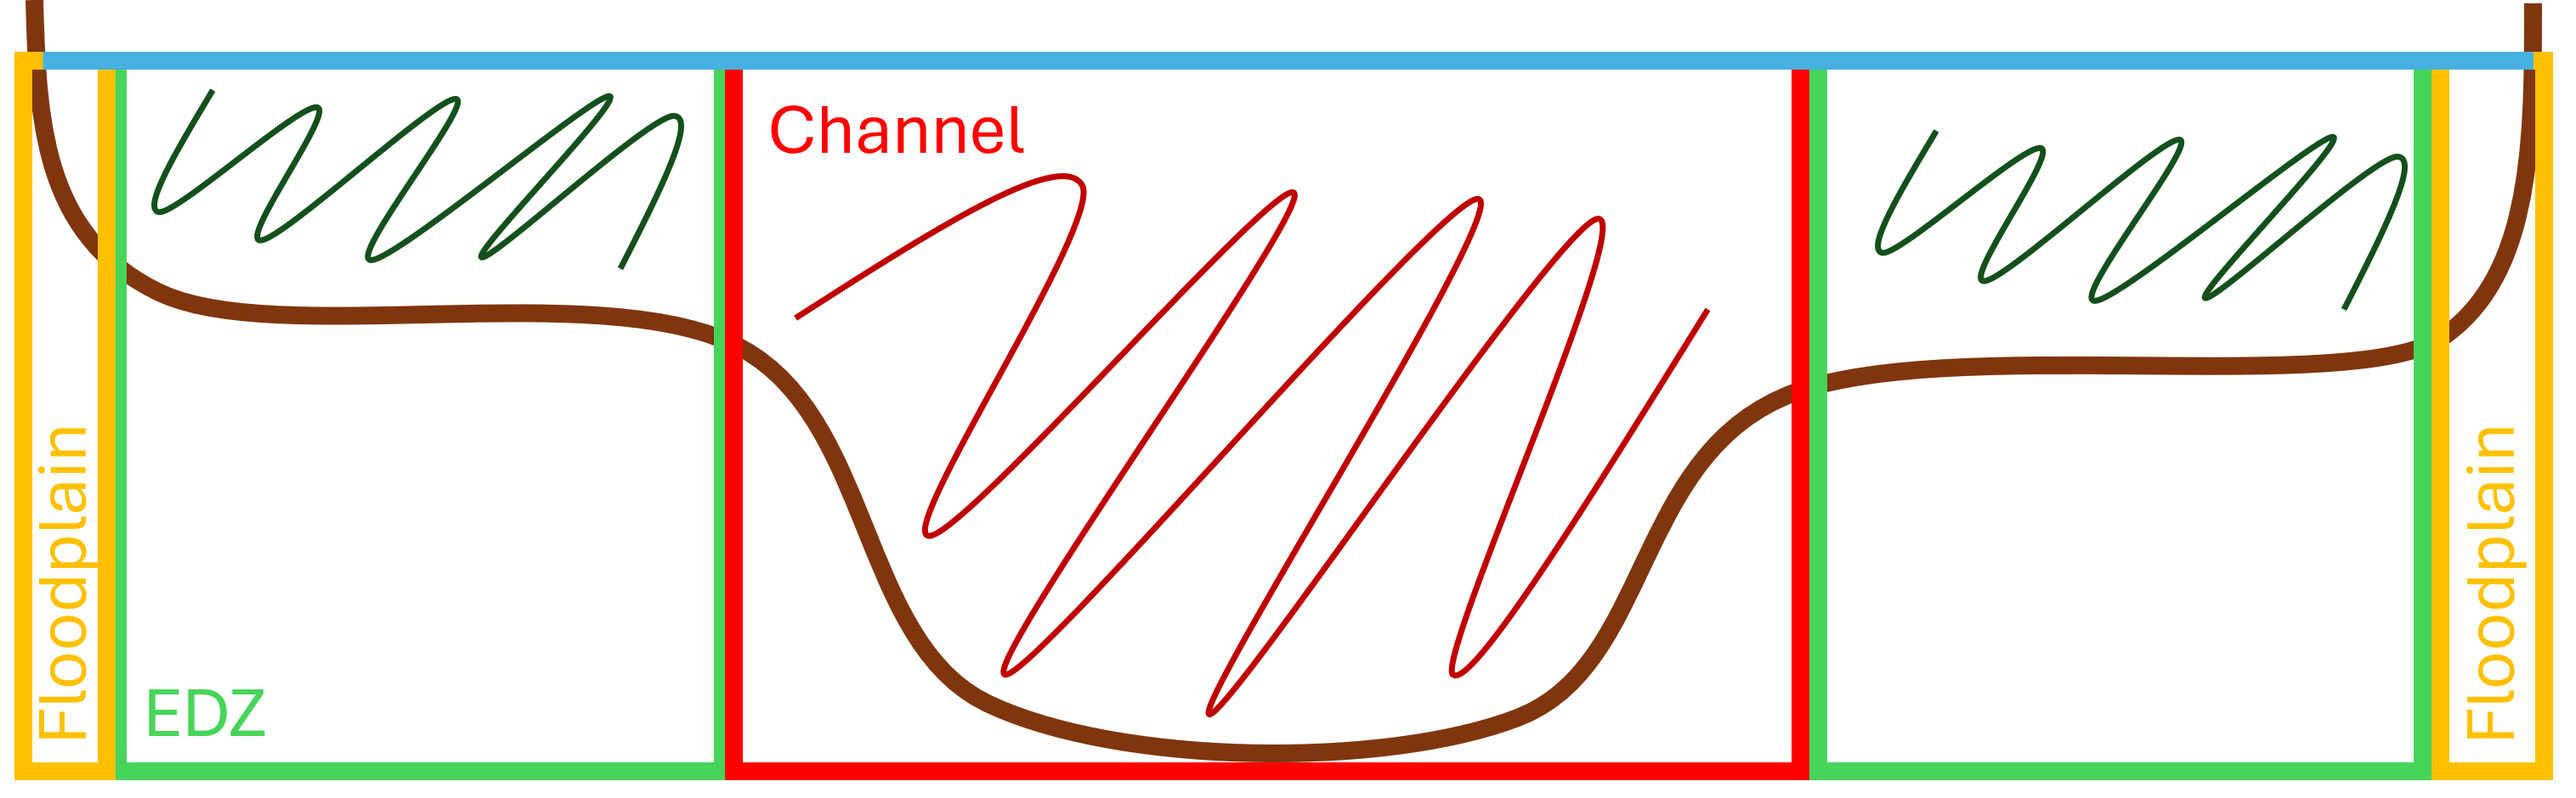
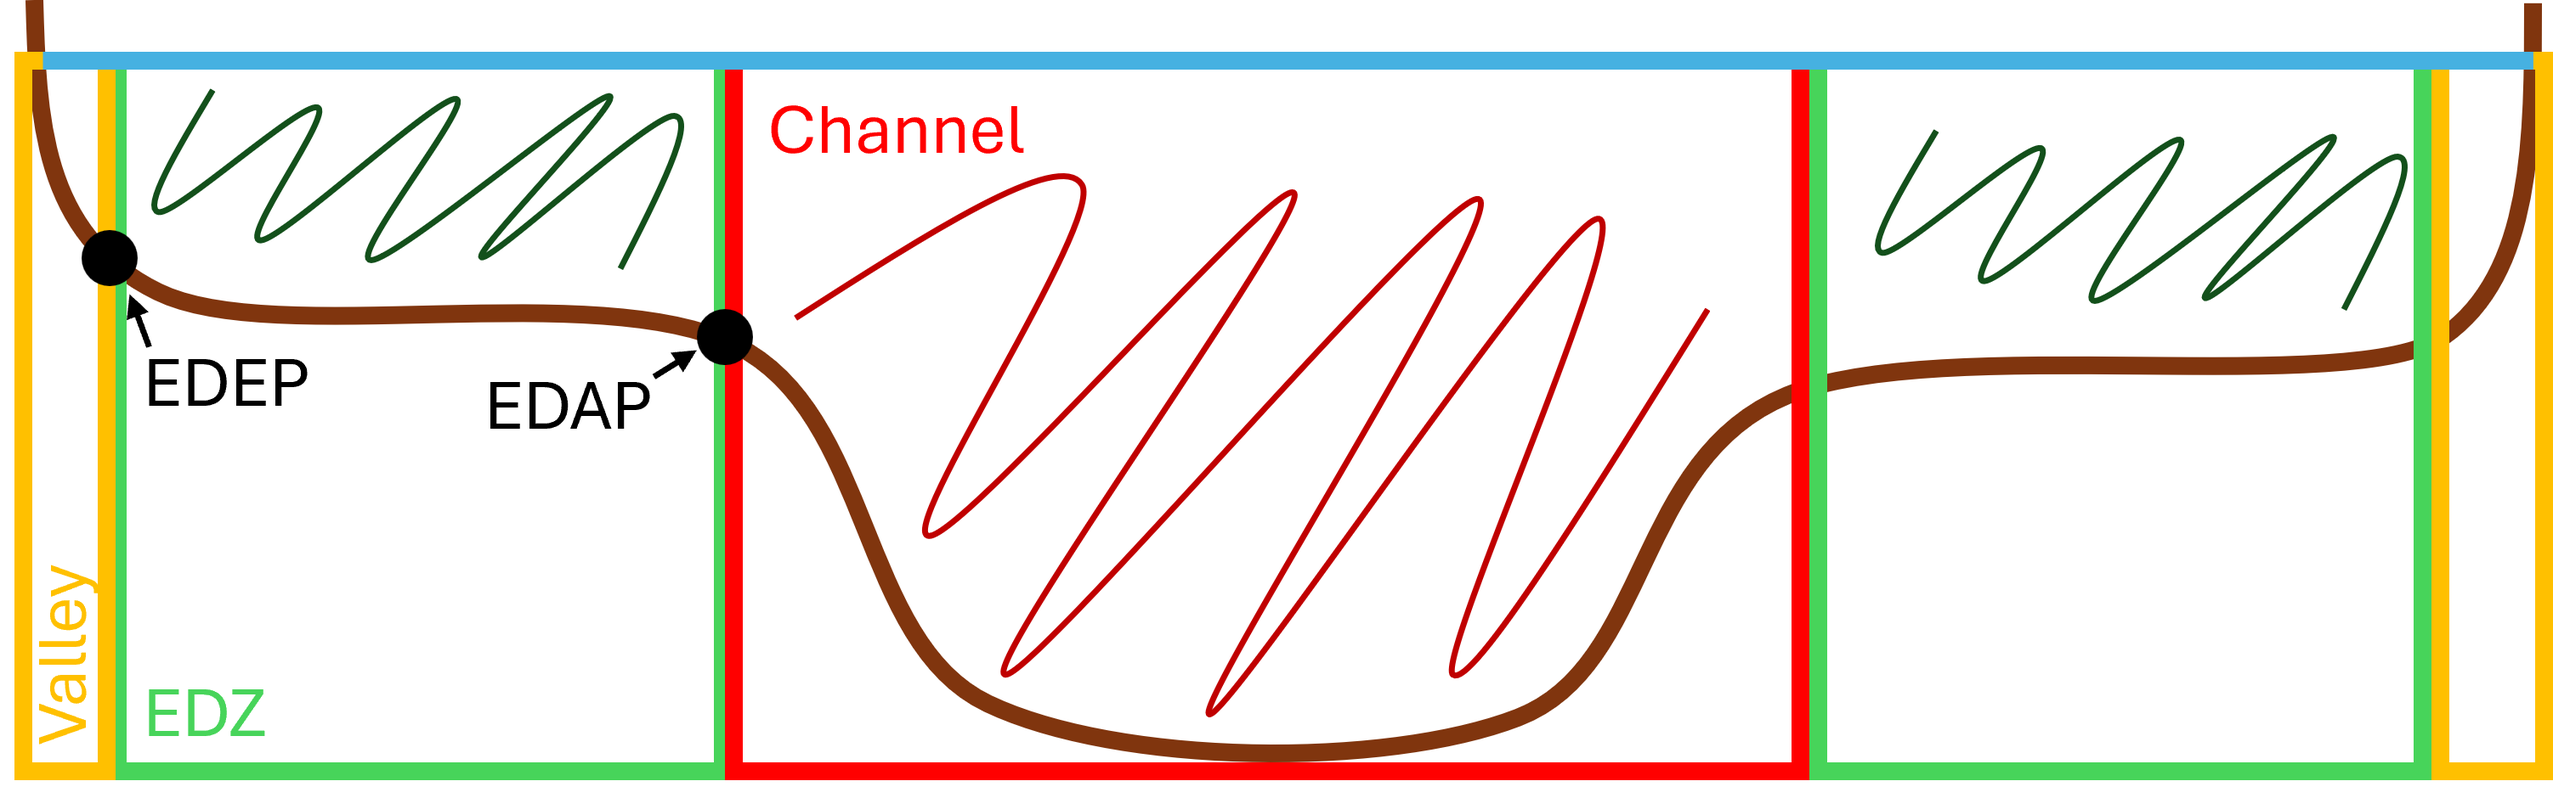
update documentation and images

diff --git a/docs/General/Flood_Metrics.md b/docs/General/Flood_Metrics.md
@@ -1,6 +1,6 @@
 ## How to generate flood-specific metrics with UVM's topographic extraction tools
 
-Once reach-average cross-sections have been generated from DEM data (see [Tutorial 1](Topographic_extraction.md)) and Energy Dissipation Zones have been identified (see Tutorial 2), tools from this repository may be used to derive various flood-specific metrics.  Most of these metrics subdivide the river into one of several zones based on the Energy Dissipation Access Point (EDAP) and Energy Dissipation Exit Point (EDEP).  A rough schematic of the zones is shown below.
+Once reach-average cross-sections have been generated from DEM data (see [Tutorial 1](Topographic_Extraction.md)) and Energy Dissipation Zones have been identified (see [Tutorial 2](Feature_Extraction.md)), tools from this repository may be used to derive various flood-specific metrics.  Most of these metrics subdivide the river into one of several zones based on the Energy Dissipation Access Point (EDAP) and Energy Dissipation Exit Point (EDEP).  A rough schematic of the zones is shown below.
 
 <img src="../../images/zone_schematic.png" alt= “zone_schematic”>
 
